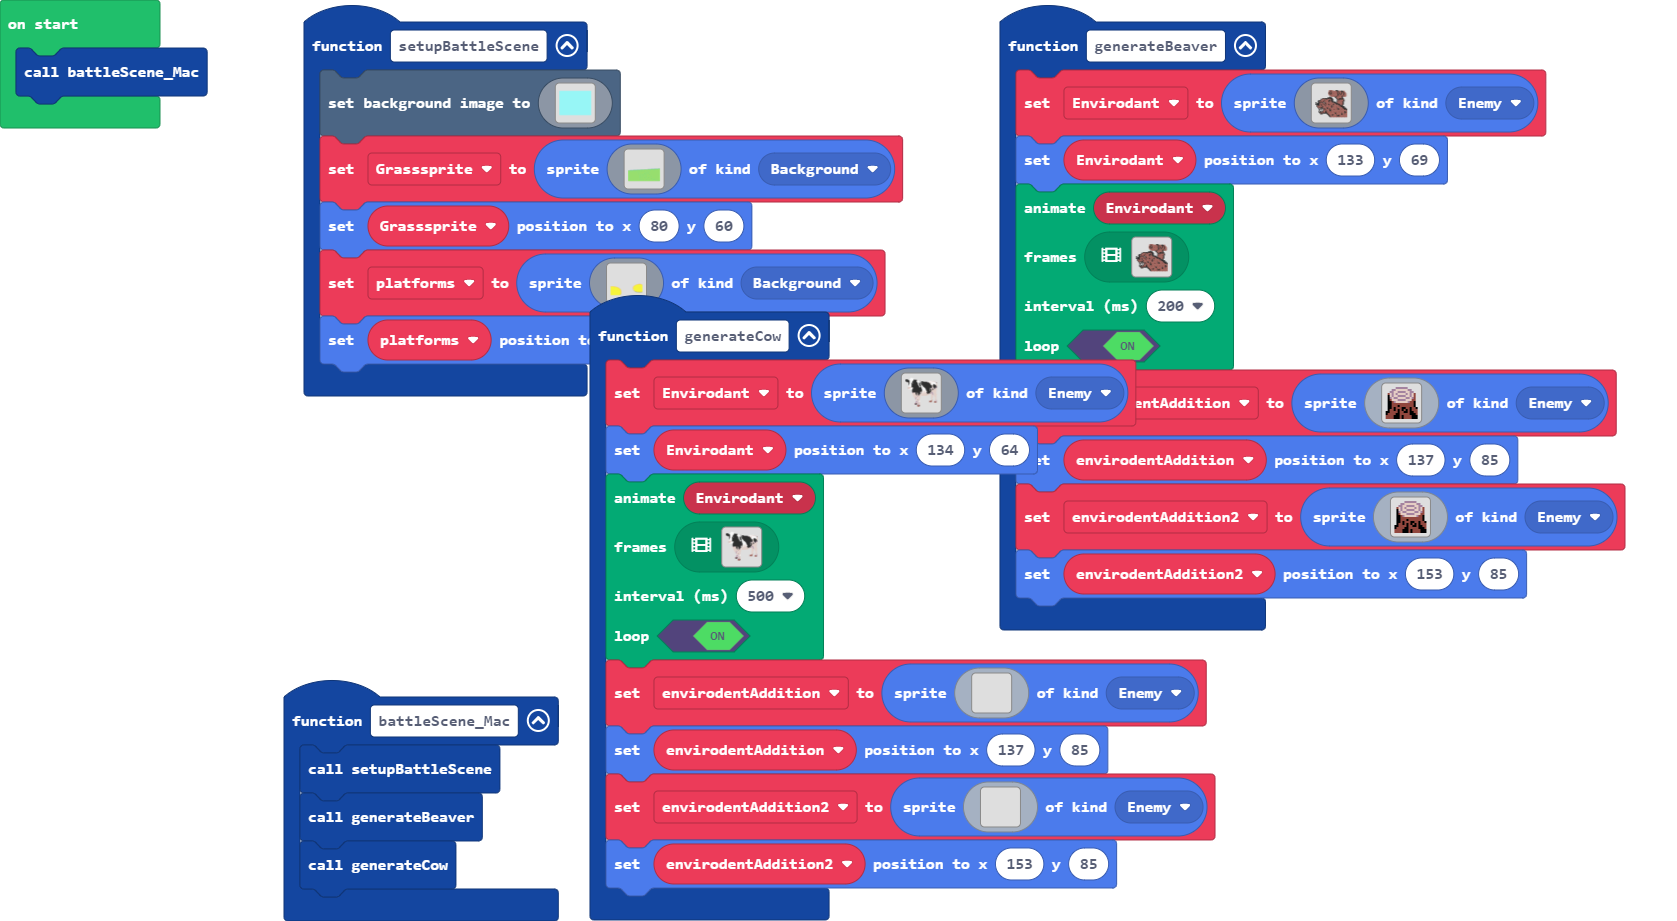
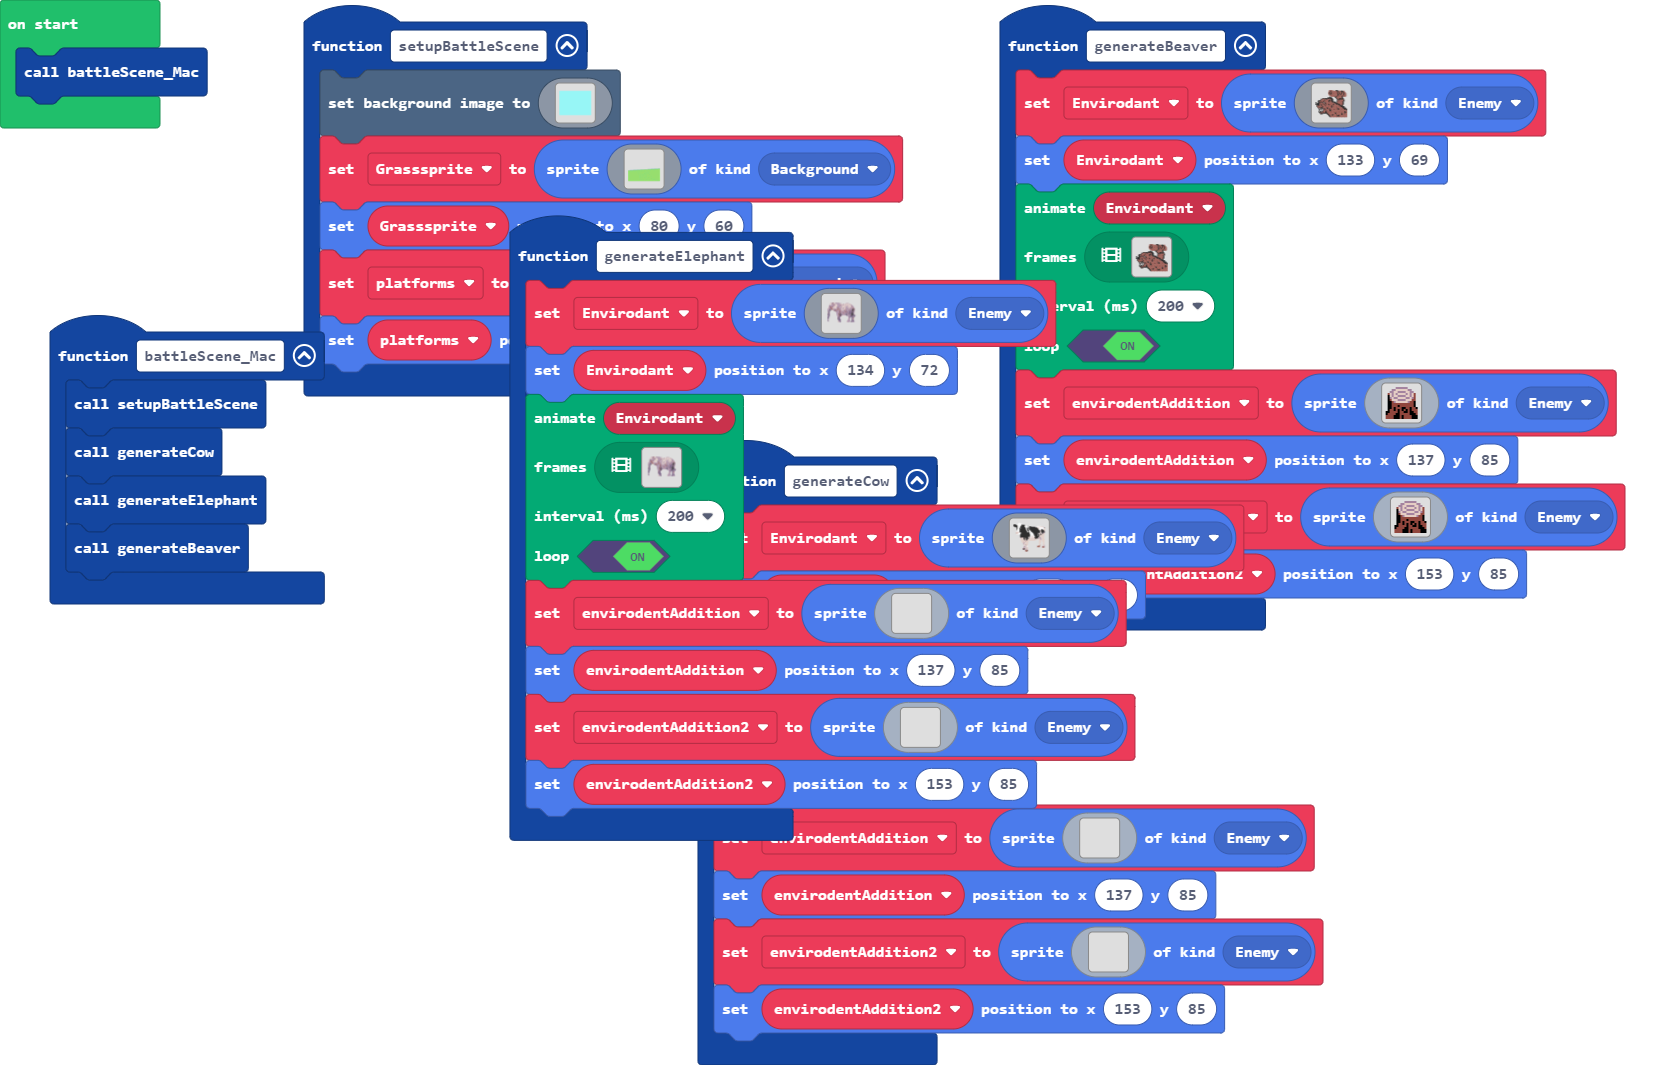
added elephant

diff --git a/images.g.ts b/images.g.ts
@@ -514,6 +514,54 @@ ffffff.f111111111ffffff.........................................
 .........................eee....................................
 ................................................................
 `;
+            case "image6":
+            case "ElephantConst":return img`
+.................................................................
+.................................................................
+.................................................................
+...........bdbbcebddbbcbbbbbb...............dd...................
+..........dddbbeebddddbbbbbbbbbbb........dbbbbbb.................
+.........dbddbbbbbdbbdbdbbbbbbbddddddbbdddddddddddbd.............
+.........ddddbbbbbebddddbbbbbbdbdbdbdbddddbdddddddbdd............
+.........bddbdbbbebbbddddbbbbbbebbbdbbddddbddbdbdbddbb...........
+........bdbbbbbbbbbbbddddbbbbbebbbddbdbbdbddddddddddbbb..........
+.......dbccbbbbbbbbddddddbbbbbbbbbddddddddbdbbbddddddbbb.........
+.......dbccbbbbeebddddddbdcbbbbbdbdbdddddbdbbbddbddddbebb........
+.......dbbbeeebcbddddddbbbbbbbbdbbbdddddbdbdbbddddbdddbbbb.......
+.......bbbeeeebbddddddddbbcebbdbbbddddbddbbbbcdbdddbbbbebb.......
+......dbdbeeebbbddbddddbbbebbbbbbbdbbbddddbbbdbbbdbbbdbbbeb......
+.....ddbbbcbbbeddbddbddbbeebbbbbbddddbcddbbbbbbbddbbbbbebbe......
+.....bbbbcbeceeebbbbbbbbbbebebbdbbdbbdddddebbbbbbbbbbcbeffbb.....
+.....bbbbcbcbeeedbbbbbbbbbebeebbbddbdddbdebbbbbbbbbbcbbbfcfe.....
+.....bbbbcc......bbcbeeebeebbbbbbbddddcdbbbbbbbbbeebbbcbffbb.....
+.....bdbccf......ceeceebbbbbbeebbbdbbdbeebbbcddbcbbbbcffffbb.....
+.....cbbcd.........c.bcbbbbbbbcebbbbdbbbebebbbbbbbccccbcec.b.....
+.....c1fc............becbbbbeeebbbbbbbcbbbcbcbccbcccccccef.b.....
+.....cdcc.............bbbbbbbecbebbbebbbeeeebcbbbcccbbfccc.d.....
+......dcb..............bbbbbbccbebbbbbbbbcbebbbbbcccbccccc.b.....
+.....decc..............bbbbbeeccbbbebeebbbcbcbccbcccccfefb.d.....
+.....bfcb..............bbbbbebccbbbbbbebbbbcbcbcebccccfffc.d.....
+.....bcbc..............bbbbeebceebbbbbbbbbcbbbbbcccbcbffcc.d.....
+.....bccc..............bbbbbfcfcfcbbbbbebcccfbbcbcbcfcffcf.b.....
+.....fbcc...............bbbbbefccc.cbbbbbbccbbbbbbcbbfcfffbb.....
+.....bbcc...............bbbeeeccc..........cccbbbcbcbcfcccccc....
+.....cbcc...............bbbbbccfe.............bcdbbccfcccbccc....
+.....bbc.................bbeccc................bbccccccccc.c.....
+.....ccc.................bbcecc................bcbcc.ccccc.c.....
+.....ccc.................bccb..................bbbb...ccbb.......
+.....cc..................bcccc.................dbbc...ccce.......
+.....cc..................ceccc.................bbbb...cbbe.......
+.....bc..................cbccc................dbbb....cebb.......
+.....c...................cbcccc...............dbbb....ccbb.......
+.....bd...................ccccc...............bbbb....ccbb.......
+.....cb....................bcccc..............bbbb....cccc.......
+.....cc....................bccb..............bbbbc....cbbc.......
+......b..................ddbbbcb............bbbbbb..ccccccc......
+.........................dbdbbcc...........ddbbbbb..ccbbbbb......
+.................................................................
+.................................................................
+.................................................................
+`;
         }
         return null;
     })
@@ -1087,6 +1135,284 @@ ffffff.f111111111ffffff.........................................
 ........................eeeef...................................
 .........................eee....................................
 ................................................................
+`];
+            case "Elephant":
+            case "anim2":return [img`
+.................................................................
+.................................................................
+.................................................................
+...........bdbbcebddbbcbbbbbb...............dd...................
+..........dddbbeebddddbbbbbbbbbbb........dbbbbbb.................
+.........dbddbbbbbdbbdbdbbbbbbbddddddbbdddddddddddbd.............
+.........ddddbbbbbebddddbbbbbbdbdbdbdbddddbdddddddbdd............
+.........bddbdbbbebbbddddbbbbbbebbbdbbddddbddbdbdbddbb...........
+........bdbbbbbbbbbbbddddbbbbbebbbddbdbbdbddddddddddbbb..........
+.......dbccbbbbbbbbddddddbbbbbbbbbddddddddbdbbbddddddbbb.........
+.......dbccbbbbeebddddddbdcbbbbbdbdbdddddbdbbbddbddddbebb........
+.......dbbbeeebcbddddddbbbbbbbbdbbbdddddbdbdbbddddbdddbbbb.......
+.......bbbeeeebbddddddddbbcebbdbbbddddbddbbbbcdbdddbbbbebb.......
+......dbdbeeebbbddbddddbbbebbbbbbbdbbbddddbbbdbbbdbbbdbbbeb......
+.....ddbbbcbbbeddbddbddbbeebbbbbbddddbcddbbbbbbbddbbbbbebbe......
+.....bbbbcbeceeebbbbbbbbbbebebbdbbdbbdddddebbbbbbbbbbcbeffbb.....
+.....bbbbcbcbeeedbbbbbbbbbebeebbbddbdddbdebbbbbbbbbbcbbbfcfe.....
+.....bbbbcc......bbcbeeebeebbbbbbbddddcdbbbbbbbbbeebbbcbffbb.....
+.....bdbccf......ceeceebbbbbbeebbbdbbdbeebbbcddbcbbbbcffffbb.....
+.....cbbcd.........c.bcbbbbbbbcebbbbdbbbebebbbbbbbccccbcec.b.....
+.....c1fc............becbbbbeeebbbbbbbcbbbcbcbccbcccccccef.b.....
+.....cdcc.............bbbbbbbecbebbbebbbeeeebcbbbcccbbfccc.d.....
+......dcb..............bbbbbbccbebbbbbbbbcbebbbbbcccbccccc.b.....
+.....decc..............bbbbbeeccbbbebeebbbcbcbccbcccccfefb.d.....
+.....bfcb..............bbbbbebccbbbbbbebbbbcbcbcebccccfffc.d.....
+.....bcbc..............bbbbeebceebbbbbbbbbcbbbbbcccbcbffcc.d.....
+.....bccc..............bbbbbfcfcfcbbbbbebcccfbbcbcbcfcffcf.b.....
+.....fbcc...............bbbbbefccc.cbbbbbbccbbbbbbcbbfcfffbb.....
+.....bbcc...............bbbeeeccc..........cccbbbcbcbcfcccccc....
+.....cbcc...............bbbbbccfe.............bcdbbccfcccbccc....
+.....bbc.................bbeccc................bbccccccccc.c.....
+.....ccc.................bbcecc................bcbcc.ccccc.c.....
+.....ccc.................bccb..................bbbb...ccbb.......
+.....cc..................bcccc.................dbbc...ccce.......
+.....cc..................ceccc.................bbbb...cbbe.......
+.....bc..................cbccc................dbbb....cebb.......
+.....c...................cbcccc...............dbbb....ccbb.......
+.....bd...................ccccc...............bbbb....ccbb.......
+.....cb....................bcccc..............bbbb....cccc.......
+.....cc....................bccb..............bbbbc....cbbc.......
+......b..................ddbbbcb............bbbbbb..ccccccc......
+.........................dbdbbcc...........ddbbbbb..ccbbbbb......
+.................................................................
+.................................................................
+.................................................................
+`, img`
+.................................................................
+.................................................................
+.................................................................
+...........bdbbcebddbbcbbbbbb...............dd...................
+..........dddbbeebddddbbbbbbbbbbb........dbbbbbb.................
+.........dbddbbbbbdbbdbdbbbbbbbddddddbbdddddddddddbd.............
+.........ddddbbbbbebddddbbbbbbdbdbdbdbddddbdddddddbdd............
+.........bddbdbbbebbbddddbbbbbbebbbdbbddddbddbdbdbddbb...........
+........bdbbbbbbbbbbbddddbbbbbebbbddbdbbdbddddddddddbbb..........
+.......dbccbbbbbbbbddddddbbbbbbbbbddddddddbdbbbddddddbbb.........
+.......dbccbbbbeebddddddbdcbbbbbdbdbdddddbdbbbddbddddbebb........
+.......dbbbeeebcbddddddbbbbbbbbdbbbdddddbdbdbbddddbdddbbbb.......
+.......bbbeeeebbddddddddbbcebbdbbbddddbddbbbbcdbdddbbbbebb.......
+.......ddbeeebbbddbddddbbbebbbbbbbdbbbddddbbbdbbbdbbbdbbbeb......
+......ddbbcbbbeddbddbddbbeebbbbbbddddbcddbbbbbbbddbbbbbebbe......
+......bbbbbeceeebbbbbbbbbbebebbdbbdbbdddddebbbbbbbbbbcbeffbb.....
+......bbbbccbeeedbbbbbbbbbebeebbbddbdddbdebbbbbbbbbbcbbbfcfe.....
+......bbbbcc.....bbcbeeebeebbbbbbbddddcdbbbbbbbbbeebbbcbffbb.....
+......bdbccf.....ceeceebbbbbbeebbbdbbdbeebbbcddbcbbbbcffffbb.....
+......cbbcd........c.bcbbbbbbbcebbbbdbbbebebbbbbbbccccbcec.b.....
+......c1fc...........becbbbbeeebbbbbbbcbbbcbcbccbcccccccef.b.....
+......cdcc............bbbbbbbecbebbbebbbeeeebcbbbcccbbfccc.d.....
+.......dcb.............bbbbbbccbebbbbbbbbcbebbbbbcccbccccc.b.....
+......decc.............bbbbbeeccbbbebeebbbcbcbccbcccccfefb.d.....
+......bfcb.............bbbbbebccbbbbbbebbbbcbcbcebccccfffc.d.....
+......bcbc.............bbbbeebceebbbbbbbbbcbbbbbcccbcbffcc.d.....
+......bccc.............bbbbbfcfcfcbbbbbebcccfbbcbcbcfcffcf.b.....
+......fbcc..............bbbbbefccc.cbbbbbbccbbbbbbcbbfcfffbb.....
+......bbcc..............bbbeeeccc..........cccbbbcbcbcfcccccc....
+......cbcc..............bbbbbccfe.............bcdbbccfcccbccc....
+......bbc................bbeccc................bbccccccccc.c.....
+......ccc................bbcecc................bcbcc.ccccc.c.....
+......ccc................bccb..................bbbb...ccbb.......
+......cc.................bcccc.................dbbc...ccce.......
+......cc.................ceccc.................bbbb...cbbe.......
+......bc.................cbccc................dbbb....cebb.......
+......c..................cbcccc...............dbbb....ccbb.......
+......bd..................ccccc...............bbbb....ccbb.......
+......cb...................bcccc..............bbbb....cccc.......
+......cc...................bccb..............bbbbc....cbbc.......
+.......b.................ddbbbcb............bbbbbb..ccccccc......
+.........................dbdbbcc...........ddbbbbb..ccbbbbb......
+.................................................................
+.................................................................
+.................................................................
+`, img`
+.................................................................
+.................................................................
+.................................................................
+...........bdbbcebddbbcbbbbbb...............dd...................
+..........dddbbeebddddbbbbbbbbbbb........dbbbbbb.................
+.........dbddbbbbbdbbdbdbbbbbbbddddddbbdddddddddddbd.............
+.........ddddbbbbbebddddbbbbbbdbdbdbdbddddbdddddddbdd............
+.........bddbdbbbebbbddddbbbbbbebbbdbbddddbddbdbdbddbb...........
+........bdbbbbbbbbbbbddddbbbbbebbbddbdbbdbddddddddddbbb..........
+.......dbccbbbbbbbbddddddbbbbbbbbbddddddddbdbbbddddddbbb.........
+.......dbccbbbbeebddddddbdcbbbbbdbdbdddddbdbbbddbddddbebb........
+.......dbbbeeebcbddddddbbbbbbbbdbbbdddddbdbdbbddddbdddbbbb.......
+.......bbbeeeebbddddddddbbcebbdbbbddddbddbbbbcdbdddbbbbebb.......
+.......bdbeeebbbddbddddbbbebbbbbbbdbbbddddbbbdbbbdbbbdbbbeb......
+.......ddbcbbbeddbddbddbbeebbbbbbddddbcddbbbbbbbddbbbbbebbe......
+.......bbbbeceeebbbbbbbbbbebebbdbbdbbdddddebbbbbbbbbbcbeffbb.....
+.......bbbbcbeeedbbbbbbbbbebeebbbddbdddbdebbbbbbbbbbcbbbfcfe.....
+.......bbbbcc....bbcbeeebeebbbbbbbddddcdbbbbbbbbbeebbbcbffbb.....
+.......bdbccf....ceeceebbbbbbeebbbdbbdbeebbbcddbcbbbbcffffbb.....
+.......cbbcd.......c.bcbbbbbbbcebbbbdbbbebebbbbbbbccccbcec.b.....
+.......c1fc..........becbbbbeeebbbbbbbcbbbcbcbccbcccccccef.b.....
+.......cdcc...........bbbbbbbecbebbbebbbeeeebcbbbcccbbfccc.d.....
+........dcb............bbbbbbccbebbbbbbbbcbebbbbbcccbccccc.b.....
+.......decc............bbbbbeeccbbbebeebbbcbcbccbcccccfefb.d.....
+.......bfcb............bbbbbebccbbbbbbebbbbcbcbcebccccfffc.d.....
+.......bcbc............bbbbeebceebbbbbbbbbcbbbbbcccbcbffcc.d.....
+.......bccc............bbbbbfcfcfcbbbbbebcccfbbcbcbcfcffcf.b.....
+.......fbcc.............bbbbbefccc.cbbbbbbccbbbbbbcbbfcfffbb.....
+.......bbcc.............bbbeeeccc..........cccbbbcbcbcfcccccc....
+.......cbcc.............bbbbbccfe.............bcdbbccfcccbccc....
+.......bbc...............bbeccc................bbccccccccc.c.....
+.......ccc...............bbcecc................bcbcc.ccccc.c.....
+.......ccc...............bccb..................bbbb...ccbb.......
+.......cc................bcccc.................dbbc...ccce.......
+.......cc................ceccc.................bbbb...cbbe.......
+.......bc................cbccc................dbbb....cebb.......
+.......c.................cbcccc...............dbbb....ccbb.......
+.......bd.................ccccc...............bbbb....ccbb.......
+.......cb..................bcccc..............bbbb....cccc.......
+.......cc..................bccb..............bbbbc....cbbc.......
+........b................ddbbbcb............bbbbbb..ccccccc......
+.........................dbdbbcc...........ddbbbbb..ccbbbbb......
+.................................................................
+.................................................................
+.................................................................
+`, img`
+.................................................................
+.................................................................
+.................................................................
+...........bdbbcebddbbcbbbbbb...............dd...................
+..........dddbbeebddddbbbbbbbbbbb........dbbbbbb.................
+.........dbddbbbbbdbbdbdbbbbbbbddddddbbdddddddddddbd.............
+.........ddddbbbbbebddddbbbbbbdbdbdbdbddddbdddddddbdd............
+.........bddbdbbbebbbddddbbbbbbebbbdbbddddbddbdbdbddbb...........
+........bdbbbbbbbbbbbddddbbbbbebbbddbdbbdbddddddddddbbb..........
+.......dbccbbbbbbbbddddddbbbbbbbbbddddddddbdbbbddddddbbb.........
+.......dbccbbbbeebddddddbdcbbbbbdbdbdddddbdbbbddbddddbebb........
+.......dbbbeeebcbddddddbbbbbbbbdbbbdddddbdbdbbddddbdddbbbb.......
+.......bbbeeeebbddddddddbbcebbdbbbddddbddbbbbcdbdddbbbbebb.......
+.......ddbeeebbbddbddddbbbebbbbbbbdbbbddddbbbdbbbdbbbdbbbeb......
+......ddbbcbbbeddbddbddbbeebbbbbbddddbcddbbbbbbbddbbbbbebbe......
+......bbbbbeceeebbbbbbbbbbebebbdbbdbbdddddebbbbbbbbbbcbeffbb.....
+......bbbbccbeeedbbbbbbbbbebeebbbddbdddbdebbbbbbbbbbcbbbfcfe.....
+......bbbbcc.....bbcbeeebeebbbbbbbddddcdbbbbbbbbbeebbbcbffbb.....
+......bdbccf.....ceeceebbbbbbeebbbdbbdbeebbbcddbcbbbbcffffbb.....
+......cbbcd........c.bcbbbbbbbcebbbbdbbbebebbbbbbbccccbcec.b.....
+......c1fc...........becbbbbeeebbbbbbbcbbbcbcbccbcccccccef.b.....
+......cdcc............bbbbbbbecbebbbebbbeeeebcbbbcccbbfccc.d.....
+.......dcb.............bbbbbbccbebbbbbbbbcbebbbbbcccbccccc.b.....
+......decc.............bbbbbeeccbbbebeebbbcbcbccbcccccfefb.d.....
+......bfcb.............bbbbbebccbbbbbbebbbbcbcbcebccccfffc.d.....
+......bcbc.............bbbbeebceebbbbbbbbbcbbbbbcccbcbffcc.d.....
+......bccc.............bbbbbfcfcfcbbbbbebcccfbbcbcbcfcffcf.b.....
+......fbcc..............bbbbbefccc.cbbbbbbccbbbbbbcbbfcfffbb.....
+......bbcc..............bbbeeeccc..........cccbbbcbcbcfcccccc....
+......cbcc..............bbbbbccfe.............bcdbbccfcccbccc....
+......bbc................bbeccc................bbccccccccc.c.....
+......ccc................bbcecc................bcbcc.ccccc.c.....
+......ccc................bccb..................bbbb...ccbb.......
+......cc.................bcccc.................dbbc...ccce.......
+......cc.................ceccc.................bbbb...cbbe.......
+......bc.................cbccc................dbbb....cebb.......
+......c..................cbcccc...............dbbb....ccbb.......
+......bd..................ccccc...............bbbb....ccbb.......
+......cb...................bcccc..............bbbb....cccc.......
+......cc...................bccb..............bbbbc....cbbc.......
+.......b.................ddbbbcb............bbbbbb..ccccccc......
+.........................dbdbbcc...........ddbbbbb..ccbbbbb......
+.................................................................
+.................................................................
+.................................................................
+`, img`
+.................................................................
+.................................................................
+.................................................................
+...........bdbbcebddbbcbbbbbb...............dd...................
+..........dddbbeebddddbbbbbbbbbbb........dbbbbbb.................
+.........dbddbbbbbdbbdbdbbbbbbbddddddbbdddddddddddbd.............
+.........ddddbbbbbebddddbbbbbbdbdbdbdbddddbdddddddbdd............
+.........bddbdbbbebbbddddbbbbbbebbbdbbddddbddbdbdbddbb...........
+........bdbbbbbbbbbbbddddbbbbbebbbddbdbbdbddddddddddbbb..........
+.......dbccbbbbbbbbddddddbbbbbbbbbddddddddbdbbbddddddbbb.........
+.......dbccbbbbeebddddddbdcbbbbbdbdbdddddbdbbbddbddddbebb........
+.......dbbbeeebcbddddddbbbbbbbbdbbbdddddbdbdbbddddbdddbbbb.......
+.......bbbeeeebbddddddddbbcebbdbbbddddbddbbbbcdbdddbbbbebb.......
+......dbdbeeebbbddbddddbbbebbbbbbbdbbbddddbbbdbbbdbbbdbbbeb......
+.....ddbbbcbbbeddbddbddbbeebbbbbbddddbcddbbbbbbbddbbbbbebbe......
+.....bbbbcbeceeebbbbbbbbbbebebbdbbdbbdddddebbbbbbbbbbcbeffbb.....
+.....bbbbcbcbeeedbbbbbbbbbebeebbbddbdddbdebbbbbbbbbbcbbbfcfe.....
+.....bbbbcc......bbcbeeebeebbbbbbbddddcdbbbbbbbbbeebbbcbffbb.....
+.....bdbccf......ceeceebbbbbbeebbbdbbdbeebbbcddbcbbbbcffffbb.....
+.....cbbcd.........c.bcbbbbbbbcebbbbdbbbebebbbbbbbccccbcec.b.....
+.....c1fc............becbbbbeeebbbbbbbcbbbcbcbccbcccccccef.b.....
+.....cdcc.............bbbbbbbecbebbbebbbeeeebcbbbcccbbfccc.d.....
+......dcb..............bbbbbbccbebbbbbbbbcbebbbbbcccbccccc.b.....
+.....decc..............bbbbbeeccbbbebeebbbcbcbccbcccccfefb.d.....
+.....bfcb..............bbbbbebccbbbbbbebbbbcbcbcebccccfffc.d.....
+.....bcbc..............bbbbeebceebbbbbbbbbcbbbbbcccbcbffcc.d.....
+.....bccc..............bbbbbfcfcfcbbbbbebcccfbbcbcbcfcffcf.b.....
+.....fbcc...............bbbbbefccc.cbbbbbbccbbbbbbcbbfcfffbb.....
+.....bbcc...............bbbeeeccc..........cccbbbcbcbcfcccccc....
+.....cbcc...............bbbbbccfe.............bcdbbccfcccbccc....
+.....bbc.................bbeccc................bbccccccccc.c.....
+.....ccc.................bbcecc................bcbcc.ccccc.c.....
+.....ccc.................bccb..................bbbb...ccbb.......
+.....cc..................bcccc.................dbbc...ccce.......
+.....cc..................ceccc.................bbbb...cbbe.......
+.....bc..................cbccc................dbbb....cebb.......
+.....c...................cbcccc...............dbbb....ccbb.......
+.....bd...................ccccc...............bbbb....ccbb.......
+.....cb....................bcccc..............bbbb....cccc.......
+.....cc....................bccb..............bbbbc....cbbc.......
+......b..................ddbbbcb............bbbbbb..ccccccc......
+.........................dbdbbcc...........ddbbbbb..ccbbbbb......
+.................................................................
+.................................................................
+.................................................................
+`, img`
+.................................................................
+.................................................................
+.................................................................
+...........bdbbcebddbbcbbbbbb...............dd...................
+..........dddbbeebddddbbbbbbbbbbb........dbbbbbb.................
+.........dbddbbbbbdbbdbdbbbbbbbddddddbbdddddddddddbd.............
+.........ddddbbbbbebddddbbbbbbdbdbdbdbddddbdddddddbdd............
+.........bddbdbbbebbbddddbbbbbbebbbdbbddddbddbdbdbddbb...........
+........bdbbbbbbbbbbbddddbbbbbebbbddbdbbdbddddddddddbbb..........
+.......dbccbbbbbbbbddddddbbbbbbbbbddddddddbdbbbddddddbbb.........
+.......dbccbbbbeebddddddbdcbbbbbdbdbdddddbdbbbddbddddbebb........
+......bdbbbeeebcbddddddbbbbbbbbdbbbdddddbdbdbbddddbdddbbbb.......
+.....dbbbbeeeebbddddddddbbcebbdbbbddddbddbbbbcdbdddbbbbebb.......
+....ddbbdbeeebbbddbddddbbbebbbbbbbdbbbddddbbbdbbbdbbbdbbbeb......
+....bbbbbbcbbbeddbddbddbbeebbbbbbddddbcddbbbbbbbddbbbbbebbe......
+....bbbbccbeceeebbbbbbbbbbebebbdbbdbbdddddebbbbbbbbbbcbeffbb.....
+....bbbbccbcbeeedbbbbbbbbbebeebbbddbdddbdebbbbbbbbbbcbbbfcfe.....
+....bdbccf.......bbcbeeebeebbbbbbbddddcdbbbbbbbbbeebbbcbffbb.....
+....cbbcd........ceeceebbbbbbeebbbdbbdbeebbbcddbcbbbbcffffbb.....
+....c1fc...........c.bcbbbbbbbcebbbbdbbbebebbbbbbbccccbcec.b.....
+....cdcc.............becbbbbeeebbbbbbbcbbbcbcbccbcccccccef.b.....
+.....dcb..............bbbbbbbecbebbbebbbeeeebcbbbcccbbfccc.d.....
+....decc...............bbbbbbccbebbbbbbbbcbebbbbbcccbccccc.b.....
+....bfcb...............bbbbbeeccbbbebeebbbcbcbccbcccccfefb.d.....
+....bcbc...............bbbbbebccbbbbbbebbbbcbcbcebccccfffc.d.....
+....bccc...............bbbbeebceebbbbbbbbbcbbbbbcccbcbffcc.d.....
+....fbcc...............bbbbbfcfcfcbbbbbebcccfbbcbcbcfcffcf.b.....
+....bbcc................bbbbbefccc.cbbbbbbccbbbbbbcbbfcfffbb.....
+....cbcc................bbbeeeccc..........cccbbbcbcbcfcccccc....
+....bbc.................bbbbbccfe.............bcdbbccfcccbccc....
+....ccc..................bbeccc................bbccccccccc.c.....
+....ccc..................bbcecc................bcbcc.ccccc.c.....
+....cc...................bccb..................bbbb...ccbb.......
+....cc...................bcccc.................dbbc...ccce.......
+....bc...................ceccc.................bbbb...cbbe.......
+....c....................cbccc................dbbb....cebb.......
+....bd...................cbcccc...............dbbb....ccbb.......
+....cb....................ccccc...............bbbb....ccbb.......
+....cc.....................bcccc..............bbbb....cccc.......
+.....b.....................bccb..............bbbbc....cbbc.......
+.........................ddbbbcb............bbbbbb..ccccccc......
+.........................dbdbbcc...........ddbbbbb..ccbbbbb......
+.................................................................
+.................................................................
+.................................................................
 `];
         }
         return null;

diff --git a/main.ts b/main.ts
@@ -4,8 +4,9 @@ namespace SpriteKind {
 }
 function battleScene_Mac () {
     setupBattleScene()
-    generateBeaver()
     generateCow()
+    generateElephant()
+    generateBeaver()
 }
 function setupBattleScene () {
     scene.setBackgroundImage(assets.image`Sky`)
@@ -13,6 +14,20 @@ function setupBattleScene () {
     Grasssprite.setPosition(80, 60)
     platforms = sprites.create(assets.image`Battle grass2`, SpriteKind.Background)
     platforms.setPosition(80, 60)
+}
+function generateElephant () {
+    Envirodant = sprites.create(assets.image`ElephantConst`, SpriteKind.Enemy)
+    Envirodant.setPosition(134, 72)
+    animation.runImageAnimation(
+    Envirodant,
+    assets.animation`Elephant`,
+    200,
+    true
+    )
+    envirodentAddition = sprites.create(assets.image`Empty`, SpriteKind.Enemy)
+    envirodentAddition.setPosition(137, 85)
+    envirodentAddition2 = sprites.create(assets.image`Empty`, SpriteKind.Enemy)
+    envirodentAddition2.setPosition(153, 85)
 }
 function generateBeaver () {
     Envirodant = sprites.create(assets.image`Clouds`, SpriteKind.Enemy)
